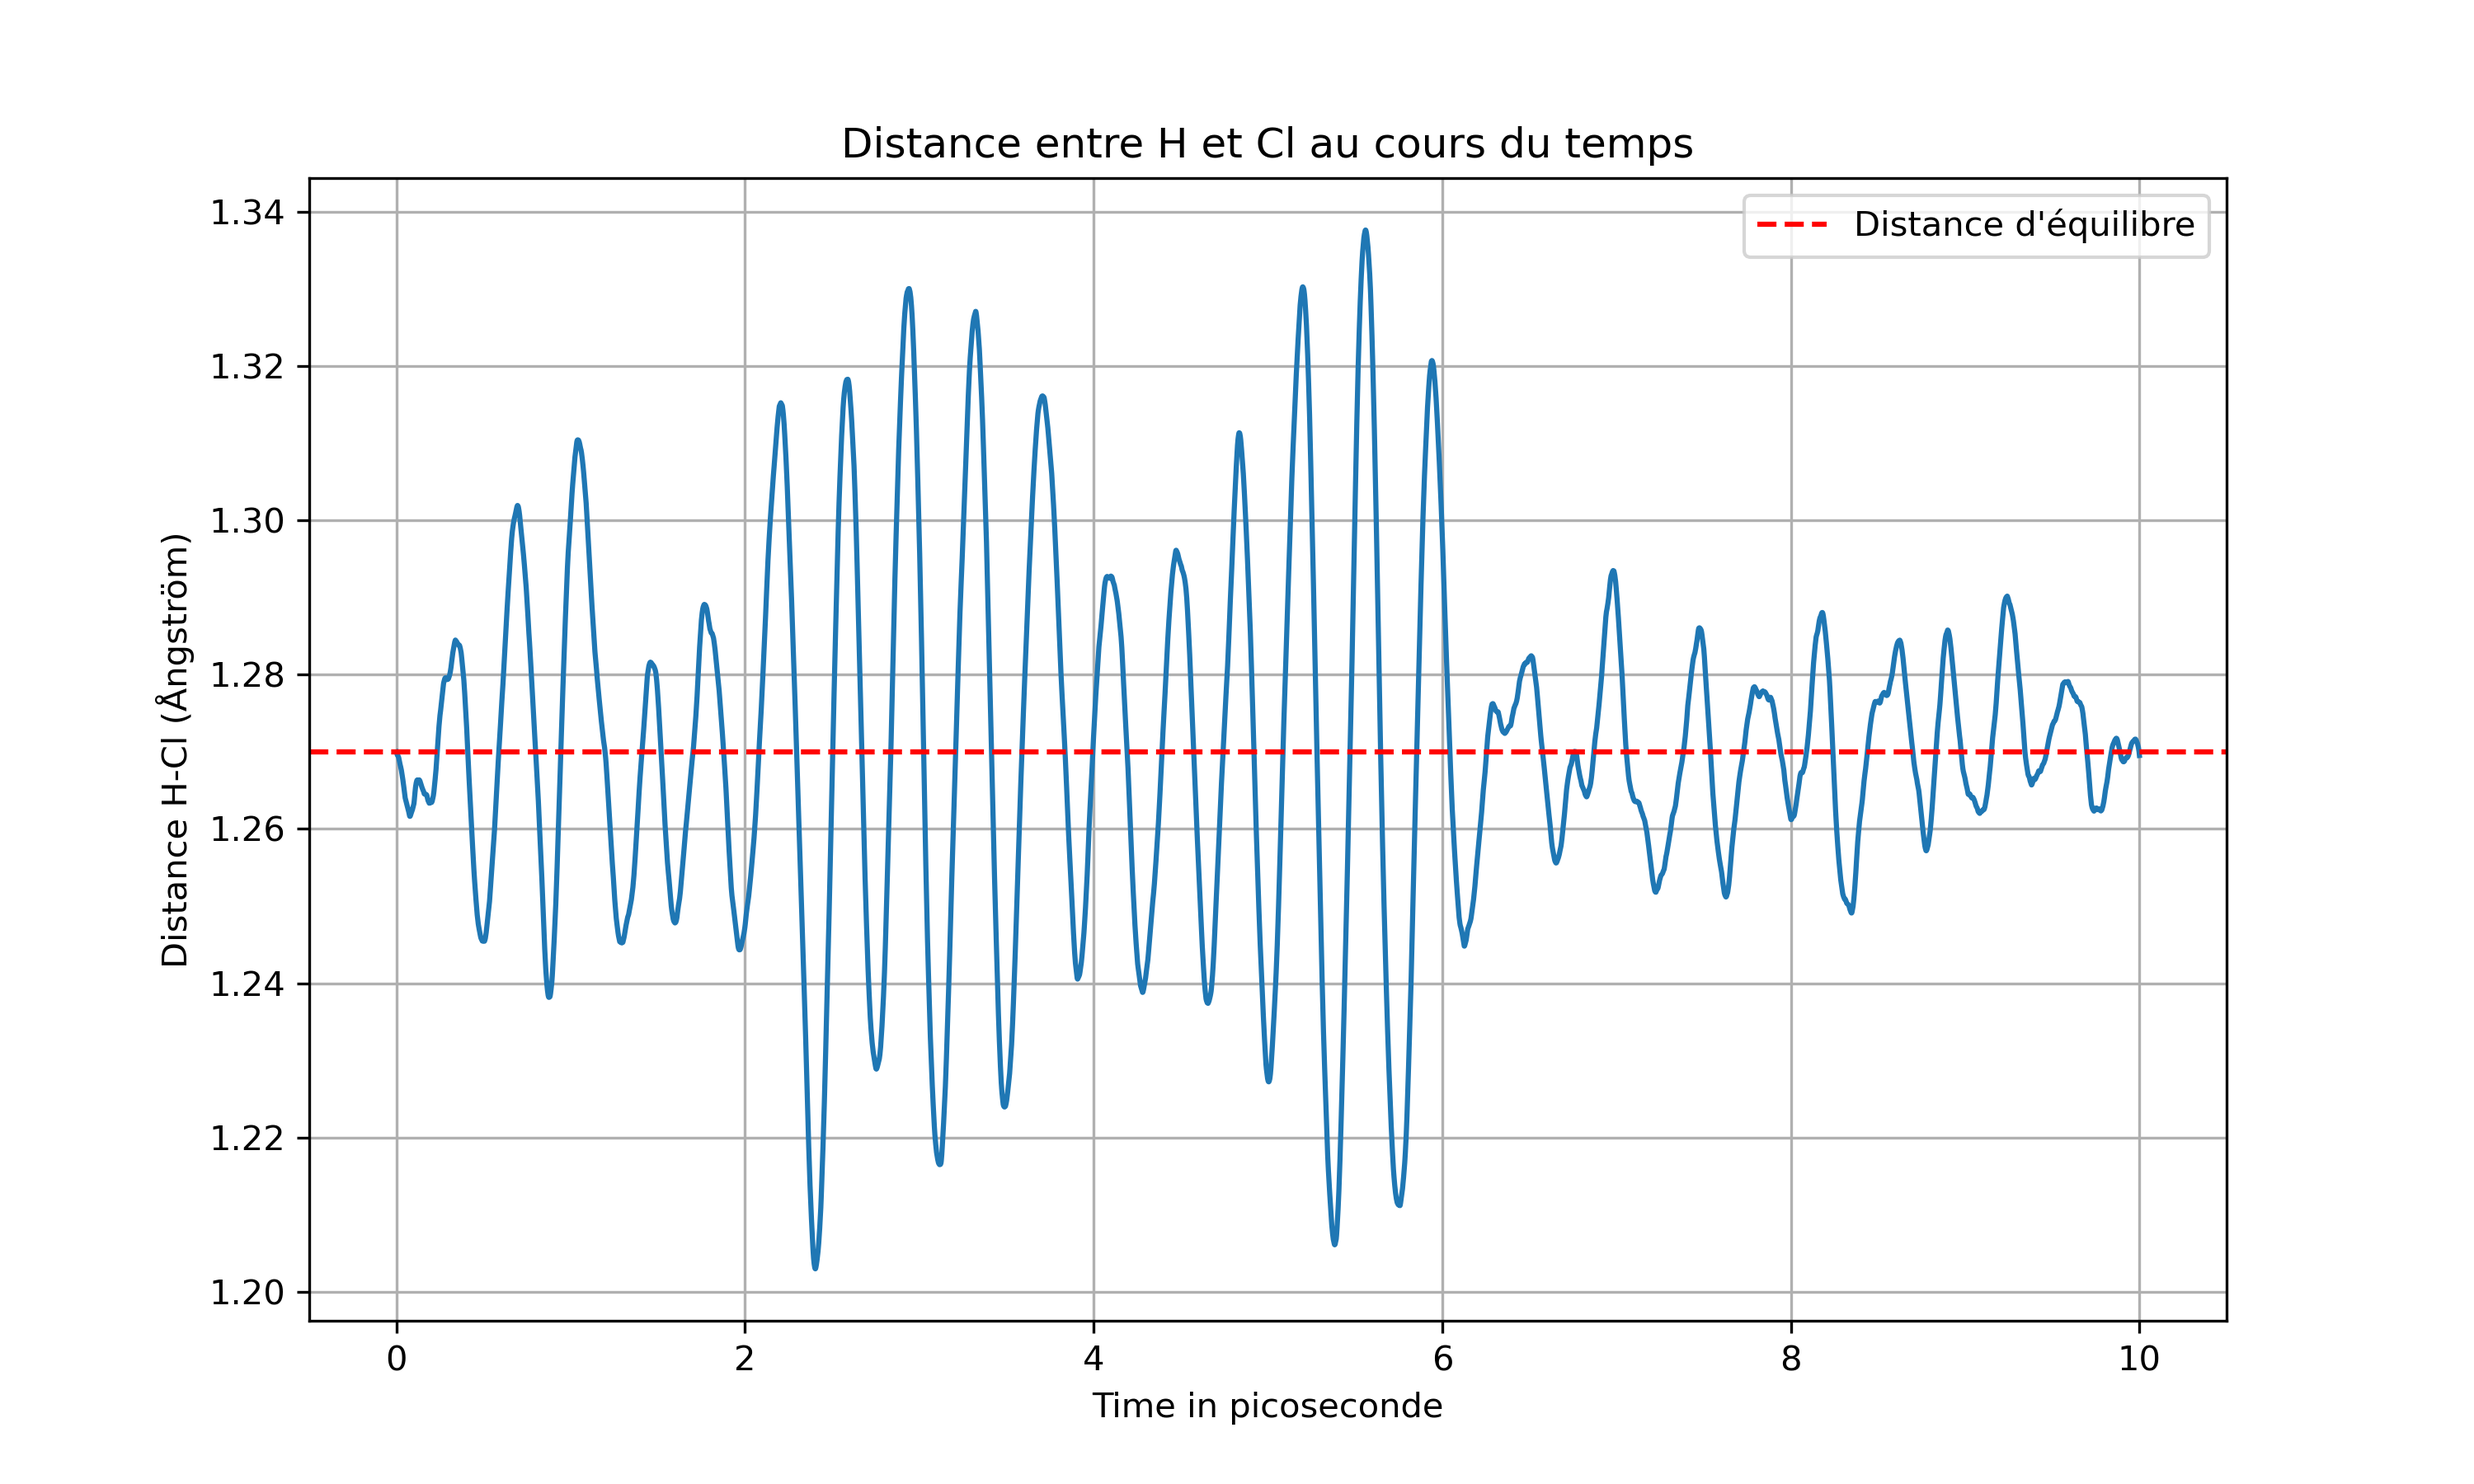
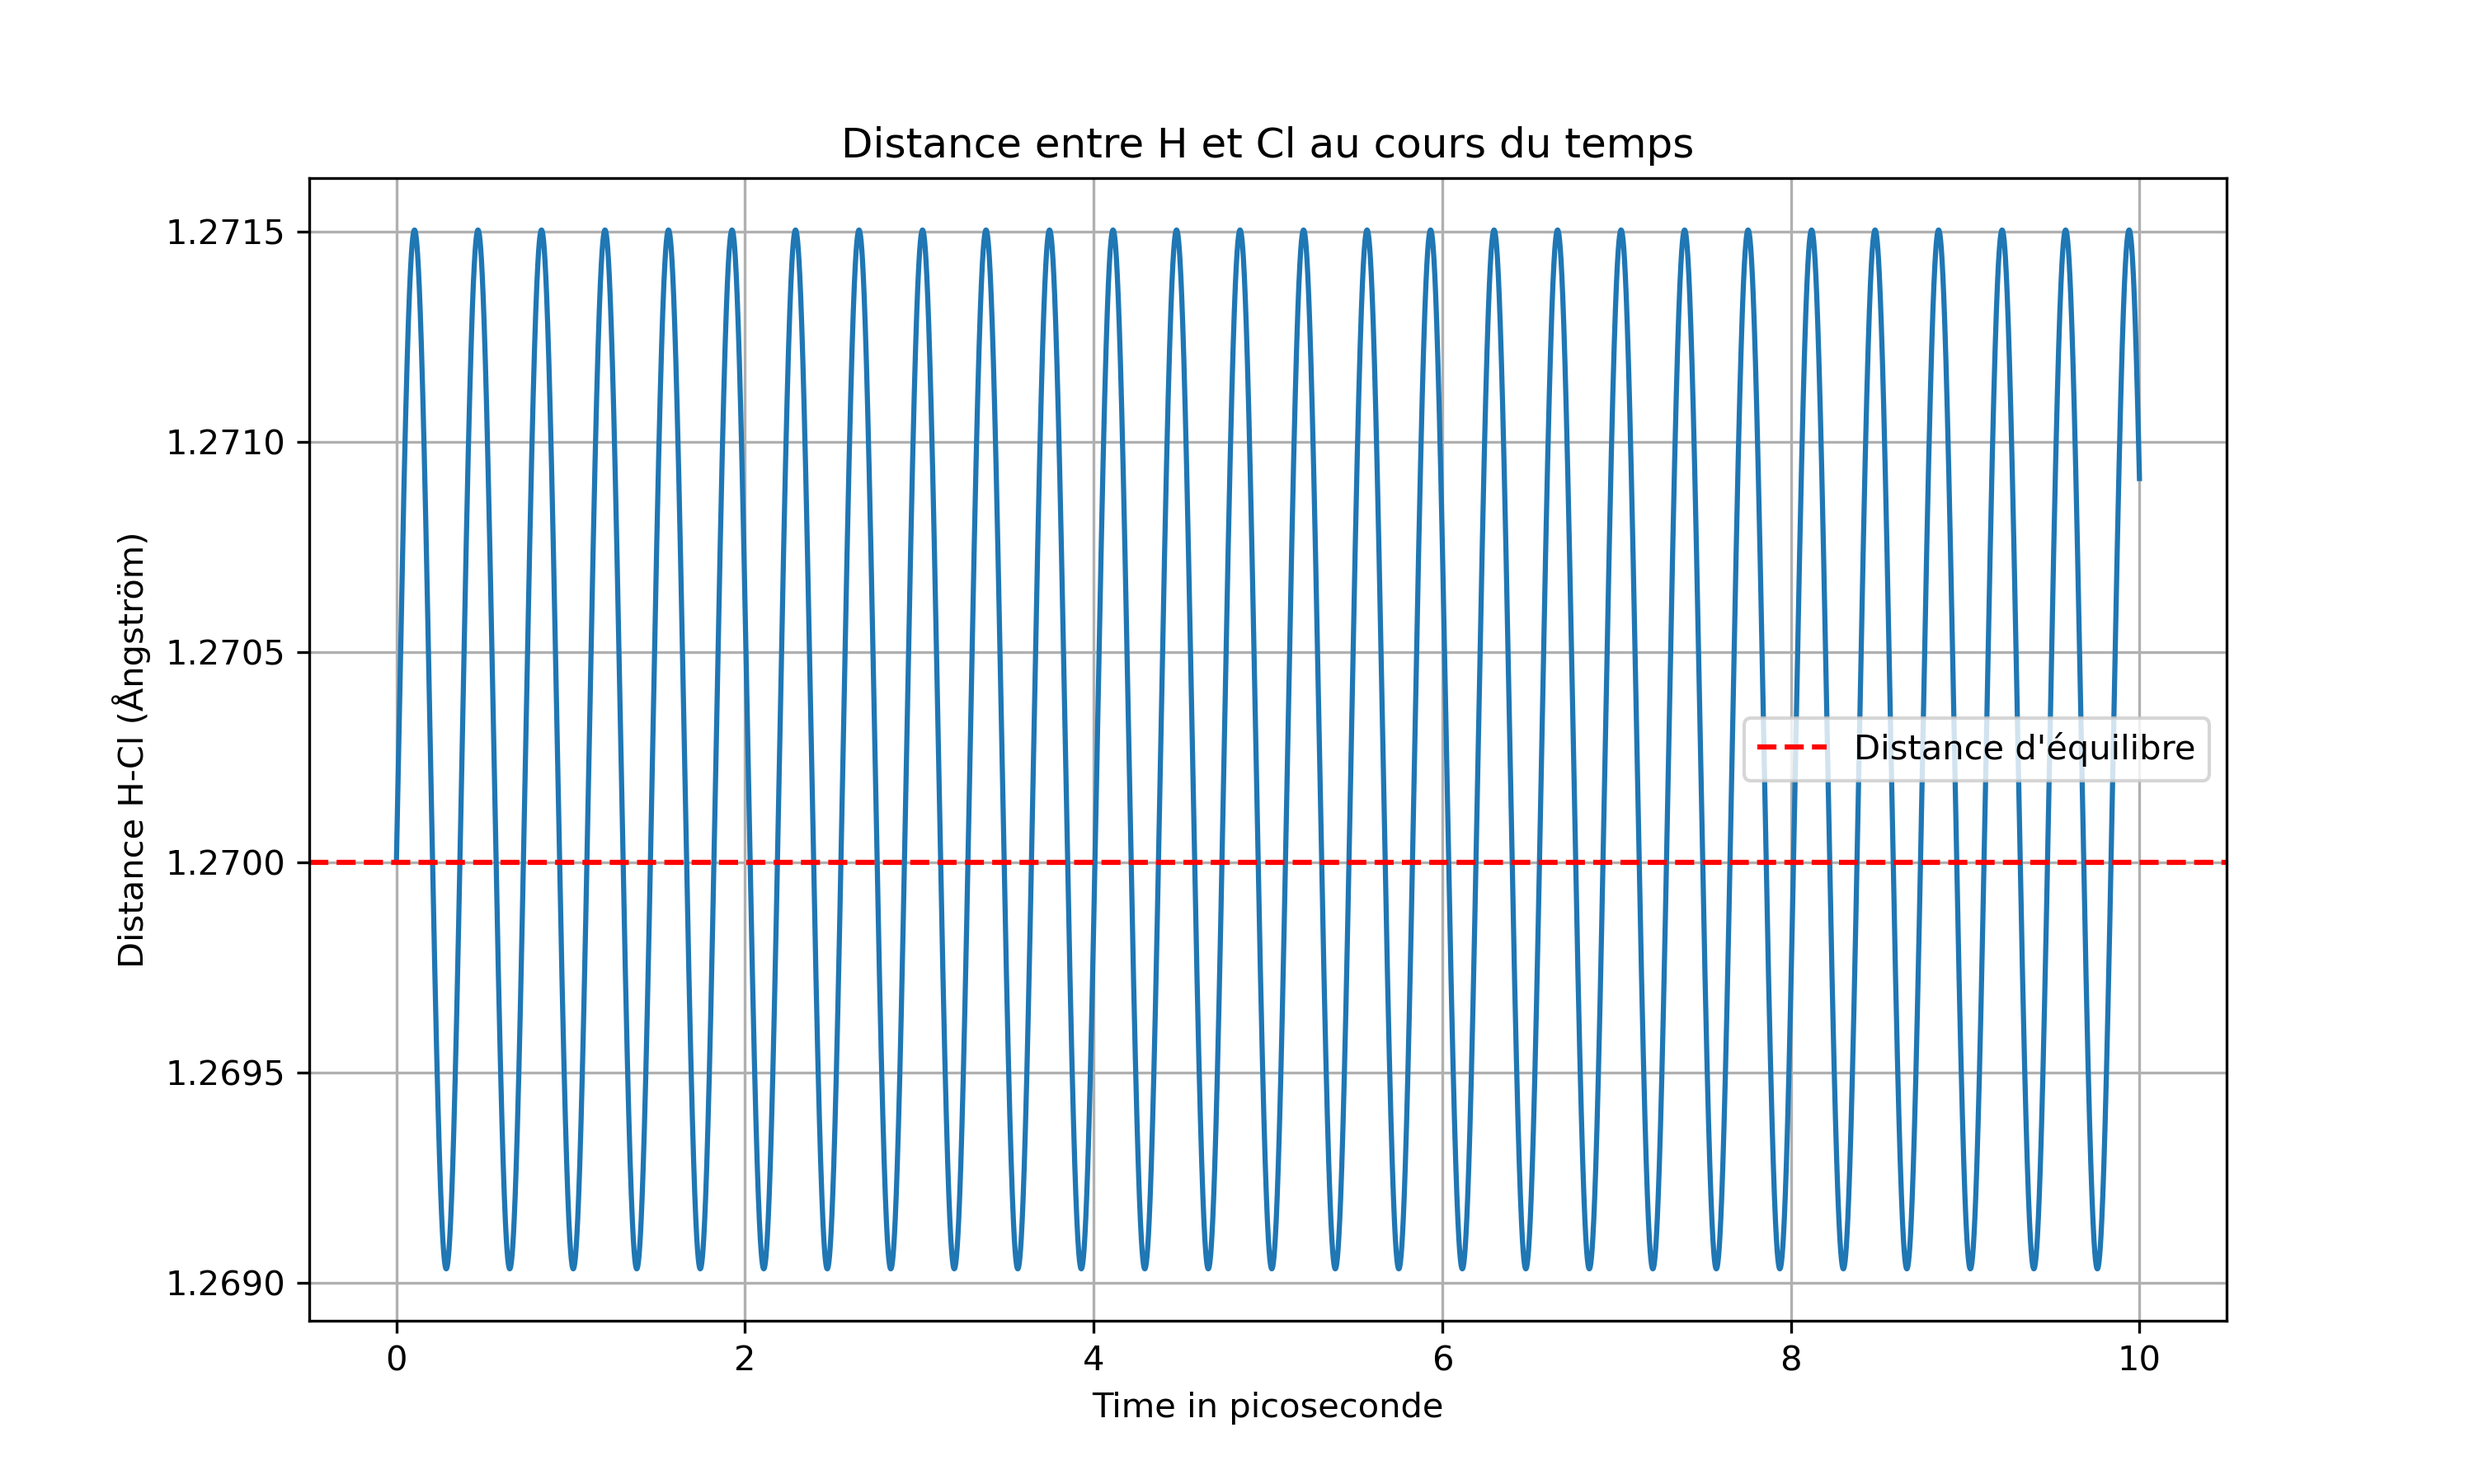
j'ai essayé de générer les vitesse d'une autre manière mais c'était pas une bonne idée

diff --git a/main.py b/main.py
@@ -12,9 +12,9 @@ kB = 1.380e-23 # Constante de Boltzmann
 T_ther = 300 # Température thermostat
 D = 4.6141*1.6e-19
 alpha = 1.81e10
-gamma = 1e12
+gamma = 0
 k=2*D*alpha**2 # Constante de raideur du ressort (N/m)
-
+T= 20
 potentiel = "Harmonique"
 # Paramètres de simulation
 
@@ -31,13 +31,13 @@ def force(H_pos, Cl_pos):
         magnitude = -2*D*alpha*np.exp(-alpha*(r-r_eq))*(np.exp(-alpha*(r-r_eq))-1)
         direction = (Cl_pos - H_pos) / r
         return magnitude * direction
-    else :
+    elif (potentiel == "Harmonique") :
         r = distance(H_pos, Cl_pos)
         magnitude = k * (r - r_eq)
         direction = (Cl_pos - H_pos) / r  # Vecteur directionnel normalisé
         return magnitude * direction
 
-T = 10
+
 # Algorithme de Verlet pour l'intégration des équations de mouvement en 3D
 
 def verlet_3d():
@@ -45,7 +45,44 @@ def verlet_3d():
     # s et des vitesses dans l'espace 3D
     H_pos = np.array([r_eq, 0.0, 0.0])  # Position initiale de H
     Cl_pos = np.array([0.0, 0.0, 0.0])  # Position initiale de Cl (à r_eq de H)
-  
+    
+    # L=[]
+    # for i in range(0,3):
+    #     A = np.random.uniform(0, 1)
+    #     B = np.random.uniform(0, 1)
+    #     Xi = np.sqrt(2)*np.cos(2*np.pi*A)*np.sqrt(-np.log(B))
+    #     v0 = np.sqrt(2*kB*T/m_H)
+    #     L.append(Xi*v0)
+
+
+    # M=[]
+    # for i in range(0,3):
+    #     A = np.random.uniform(0, 1)
+    #     B = np.random.uniform(0, 1)
+    #     Xi = np.sqrt(2)*np.cos(2*np.pi*A)*np.sqrt(-np.log(B))
+    #     v0 = np.sqrt(2*kB*T/m_Cl)
+    #     M.append(Xi*v0)
+    
+    # L2=L.copy()
+    # M2=M.copy()
+    
+    # for i in range(0,3):
+    #     L[i] = L2[i]-(m_H*L2[i]+m_Cl*M2[i])/(m_H+m_Cl)
+    #     M[i]= M2[i]-(m_H*L2[i]+m_Cl*M2[i])/(m_H+m_Cl)
+    
+    # print(L,M)
+    # v_H_carré = L[0]**2+L[1]**2+L[2]**2
+    # v_Cl_carré = M[0]**2 + M[1]**2+M[2]**2
+    # T_prime = 2/(3*kB)*(0.5*m_H*v_H_carré+0.5*m_Cl*v_Cl_carré)
+
+    # print(T_prime)
+    # for i in range(0,3):
+    #     L[i]=np.sqrt(2*T/T_prime)*L[i]
+    #     M[i]=np.sqrt(2*T/T_prime)*M[i]
+
+    # H_vel =np.array(L)
+    # Cl_vel=np.array(M)
+
     # Calcul des vitesses quadratiques moyennes pour H et Cl
     v_H_rms = np.sqrt(3 * kB * T / m_H)
     v_Cl_rms = np.sqrt(3 * kB * T / m_Cl)
@@ -160,7 +197,7 @@ Rotational_energy = 0.5*I*omega**2
 #Potential energy
 if (potentiel == "Morse") :
     Potential_energy = D*(np.exp(-alpha*(np.linalg.norm(Relative_position, axis = 1)-r_eq))-1)**2
-else :
+elif (potentiel == "Harmonique"):
     Potential_energy = 0.5*k*((np.linalg.norm(Relative_position, axis = 1)-r_eq)**2)
 
 #Total energy
@@ -206,32 +243,32 @@ plot8 = moyenne_cumul(Kinetic_energy/(kB*T_ther))
 plot9 = moyenne_cumul(Potential_energy/(kB*T_ther))
 
 #Plot Energie totale, potentielle et cinétique moyenne
-plt.figure(figsize=(10,6))
-plt.plot(temps, plot7, c="red", label="energie totale moyenne")
-plt.axhline(np.mean(Total_energy)/(kB*T_div), color='red', linestyle='--', label=f'energie totale moyenne = {np.mean(Total_energy)/(kB*T_div):.2f}')
-plt.plot(temps, plot9, c="blue", label="energie potentielle")
-plt.axhline(np.mean(Potential_energy)/(kB*T_div), color='blue', linestyle='--', label=f'energie potentielle moyenne = {np.mean(Potential_energy)/(kB*T_div):.2f}')
-plt.plot(temps, plot8, c="black", label="energie cinétique")
-plt.axhline(np.mean(Kinetic_energy)/(kB*T_div), color='black', linestyle='--', label=f'energie cinétique moyenne = {np.mean(Kinetic_energy)/(kB*T_div):.2f}')
-plt.legend()
-plt.xlabel("Time in picoseconde")
-plt.ylabel("Energy/(kB*T)")
-plt.grid(True)
-plt.show()
-
-# #Plot Energie totale, potentielle et cinétique
 # plt.figure(figsize=(10,6))
-# plt.plot(temps, plot1, c="red", label="energie totale")
+# plt.plot(temps, plot7, c="red", label="energie totale moyenne")
 # plt.axhline(np.mean(Total_energy)/(kB*T_div), color='red', linestyle='--', label=f'energie totale moyenne = {np.mean(Total_energy)/(kB*T_div):.2f}')
-# plt.plot(temps, plot2, c="blue", label="energie potentielle")
+# plt.plot(temps, plot9, c="blue", label="energie potentielle")
 # plt.axhline(np.mean(Potential_energy)/(kB*T_div), color='blue', linestyle='--', label=f'energie potentielle moyenne = {np.mean(Potential_energy)/(kB*T_div):.2f}')
-# plt.plot(temps, plot6, c="black", label="energie cinétique")
+# plt.plot(temps, plot8, c="black", label="energie cinétique")
 # plt.axhline(np.mean(Kinetic_energy)/(kB*T_div), color='black', linestyle='--', label=f'energie cinétique moyenne = {np.mean(Kinetic_energy)/(kB*T_div):.2f}')
 # plt.legend()
 # plt.xlabel("Time in picoseconde")
 # plt.ylabel("Energy/(kB*T)")
 # plt.grid(True)
 # plt.show()
+
+#Plot Energie totale, potentielle et cinétique
+plt.figure(figsize=(10,6))
+plt.plot(temps, plot1, c="red", label="energie totale")
+plt.axhline(np.mean(Total_energy)/(kB*T_div), color='red', linestyle='--', label=f'energie totale moyenne = {np.mean(Total_energy)/(kB*T_div):.2f}')
+plt.plot(temps, plot2, c="blue", label="energie potentielle")
+plt.axhline(np.mean(Potential_energy)/(kB*T_div), color='blue', linestyle='--', label=f'energie potentielle moyenne = {np.mean(Potential_energy)/(kB*T_div):.2f}')
+plt.plot(temps, plot6, c="black", label="energie cinétique")
+plt.axhline(np.mean(Kinetic_energy)/(kB*T_div), color='black', linestyle='--', label=f'energie cinétique moyenne = {np.mean(Kinetic_energy)/(kB*T_div):.2f}')
+plt.legend()
+plt.xlabel("Time in picoseconde")
+plt.ylabel("Energy/(kB*T)")
+plt.grid(True)
+plt.show()
 
 # #Plot Energie cinétique, de translation, de vibration et de rotation
 # plt.figure(figsize=(10,6))
